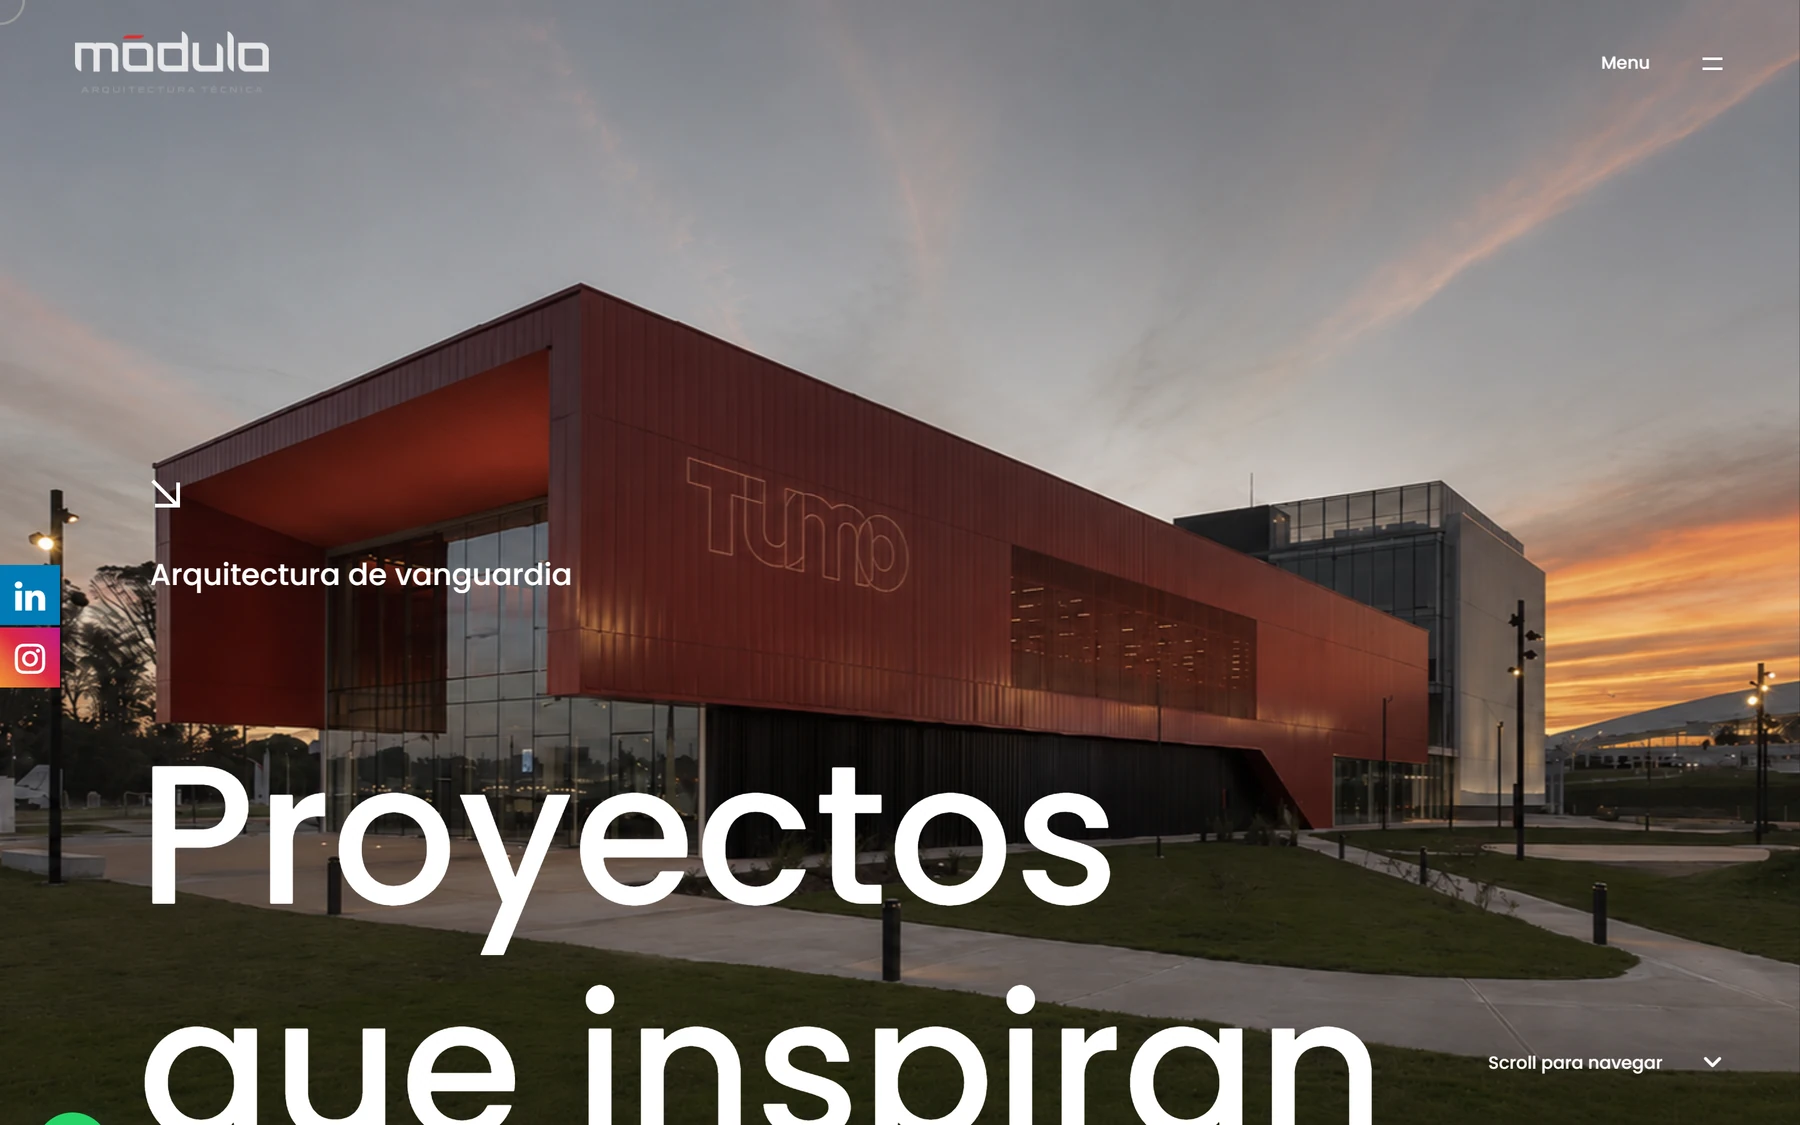
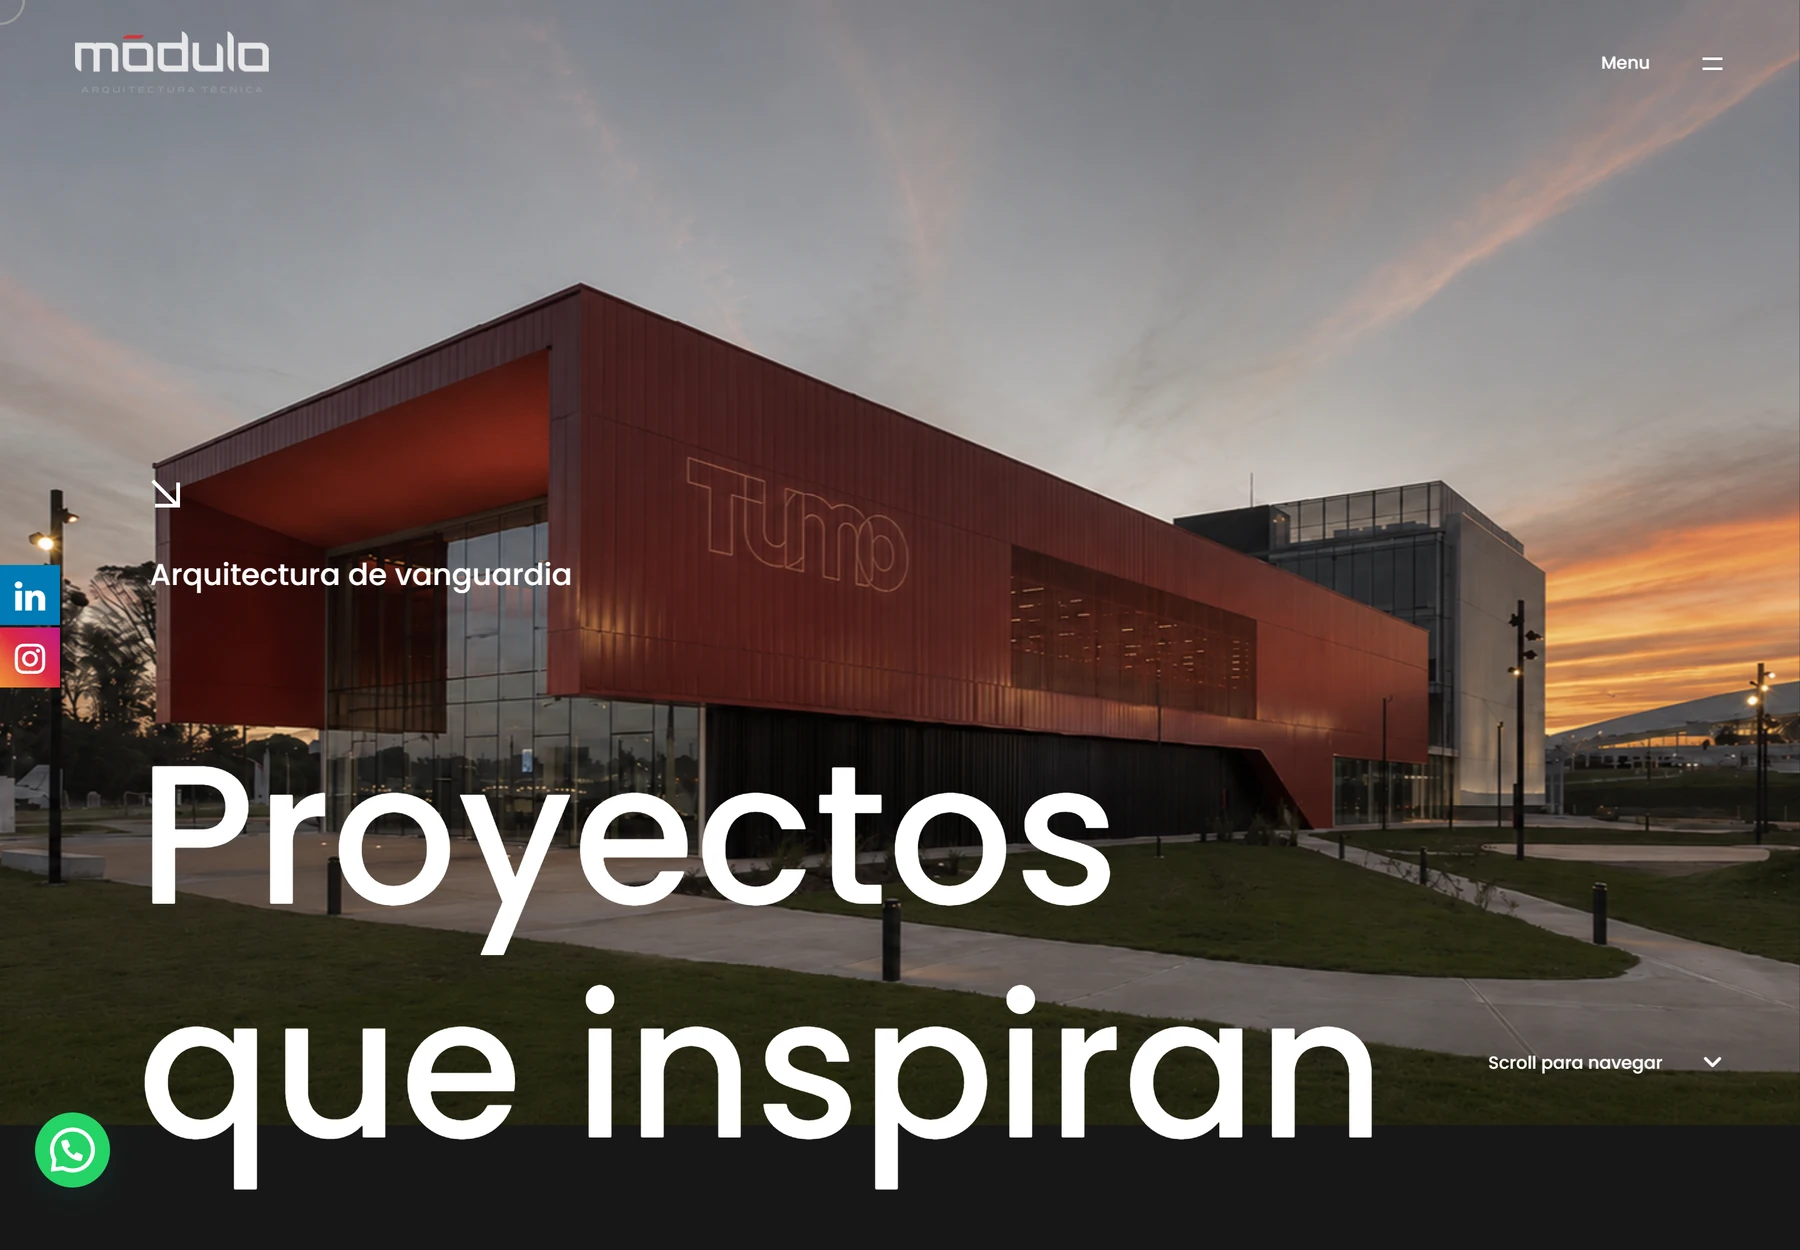
Refresh GMC desktop preview and client description

diff --git a/public/portfolio/index.html b/public/portfolio/index.html
@@ -19,7 +19,7 @@
 <div class="ticker" aria-hidden="true"><div><span>Diseño con identidad <b>✳</b> Tiendas online <b>✳</b> Sitios corporativos <b>✳</b> Ideas que conectan <b>✳</b> Soluciones digitales <b>✳</b> </span><span>Diseño con identidad <b>✳</b> Tiendas online <b>✳</b> Sitios corporativos <b>✳</b> Ideas que conectan <b>✳</b> Soluciones digitales <b>✳</b> </span></div></div>
 <section class="work" id="trabajos" aria-labelledby="work-title"><div class="section-heading"><div><p class="eyebrow">UNA SELECCIÓN DE LO QUE HACEMOS</p><h2 id="work-title">Nuestro trabajo habla.</h2></div><p>Distintos rubros. Una misma dedicación.<br>Encontrá inspiración para tu próximo proyecto.</p></div>
 <div class="toolbar" hidden><div class="filters" role="group" aria-label="Filtrar trabajos"><button class="active" data-filter="todos" aria-pressed="true">Todos <sup></sup></button><button data-filter="tiendas" aria-pressed="false">Tiendas online <sup></sup></button><button data-filter="corporativos" aria-pressed="false">Sitios corporativos <sup></sup></button><button data-filter="apps" aria-pressed="false">Apps y soluciones <sup></sup></button></div><label class="search"><span aria-hidden="true">⌕</span><input type="search" placeholder="Buscar proyecto" aria-label="Buscar proyecto"></label></div>
-<p class="result-count" aria-live="polite">40 proyectos para descubrir</p><div class="projects" id="projects"><article class="project" data-card="gmc-modulo-arquitectura"><a class="preview cover-theme-slate" data-project="gmc-modulo-arquitectura" href="https://moduloarquitectura.uy/" aria-label="Ver proyecto Módulo Arquitectura · GMC"><div class="cover-scene has-mobile"><div class="cover-heading"><span>Módulo Arquitectura · GMC</span><small>NUEVO PROYECTO</small></div><div class="cover-desktop"><div class="browser-bar"><i></i><i></i><i></i><span>moduloarquitectura.uy</span></div><img src="assets/thumb-gmc-modulo-arquitectura.webp" srcset="assets/thumb-gmc-modulo-arquitectura.webp 480w, assets/thumbLarge-gmc-modulo-arquitectura.webp 1200w" sizes="(max-width: 480px) 73vw, (max-width: 760px) 36vw, (min-width: 1600px) 400px, 25vw" alt="Vista de escritorio de Módulo Arquitectura · GMC" loading="lazy" decoding="async" width="1100" height="764"></div><div class="cover-phone"><span class="phone-camera" aria-hidden="true"></span><img src="assets/phoneThumb-gmc-modulo-arquitectura.webp" srcset="assets/phoneThumb-gmc-modulo-arquitectura.webp 180w, assets/phoneThumbLarge-gmc-modulo-arquitectura.webp 390w" sizes="(max-width: 480px) 21vw, (max-width: 760px) 10vw, (min-width: 1600px) 110px, 7vw" alt="Vista móvil de Módulo Arquitectura · GMC" loading="lazy" decoding="async" width="390" height="844"></div><span class="cover-caption" aria-hidden="true">IDEAMOS® · DISEÑO DIGITAL</span></div><span class="preview-label">Conocer el proyecto ↗</span></a><div class="project-meta"><div><h3><a class="project-title" data-project="gmc-modulo-arquitectura" href="https://moduloarquitectura.uy/">Módulo Arquitectura · GMC</a></h3><p>Arquitectura técnica &amp; construcción</p></div><a class="project-link" href="https://moduloarquitectura.uy/" target="_blank" rel="noopener noreferrer" aria-label="Visitar Módulo Arquitectura · GMC (nueva pestaña)"><svg class="arrow-icon" viewBox="0 0 24 24" aria-hidden="true" focusable="false"><path d="M6 18 18 6M6 6h12v12"/></svg></a></div><p class="project-summary">Sitio corporativo de Módulo Arquitectura, al que actualmente redirige el dominio de GMC. Presenta su experiencia en cubiertas, envolventes y fachadas, reúne proyectos arquitectónicos y publicaciones, y facilita el contacto para nuevas obras.</p><span class="project-type">Sitio corporativo</span></article>
+<p class="result-count" aria-live="polite">40 proyectos para descubrir</p><div class="projects" id="projects"><article class="project" data-card="gmc-modulo-arquitectura"><a class="preview cover-theme-slate" data-project="gmc-modulo-arquitectura" href="https://moduloarquitectura.uy/" aria-label="Ver proyecto Módulo Arquitectura · GMC"><div class="cover-scene has-mobile"><div class="cover-heading"><span>Módulo Arquitectura · GMC</span><small>NUEVO PROYECTO</small></div><div class="cover-desktop"><div class="browser-bar"><i></i><i></i><i></i><span>moduloarquitectura.uy</span></div><img src="assets/thumb-gmc-modulo-arquitectura.webp" srcset="assets/thumb-gmc-modulo-arquitectura.webp 480w, assets/thumbLarge-gmc-modulo-arquitectura.webp 1200w" sizes="(max-width: 480px) 73vw, (max-width: 760px) 36vw, (min-width: 1600px) 400px, 25vw" alt="Vista de escritorio de Módulo Arquitectura · GMC" loading="lazy" decoding="async" width="1100" height="764"></div><div class="cover-phone"><span class="phone-camera" aria-hidden="true"></span><img src="assets/phoneThumb-gmc-modulo-arquitectura.webp" srcset="assets/phoneThumb-gmc-modulo-arquitectura.webp 180w, assets/phoneThumbLarge-gmc-modulo-arquitectura.webp 390w" sizes="(max-width: 480px) 21vw, (max-width: 760px) 10vw, (min-width: 1600px) 110px, 7vw" alt="Vista móvil de Módulo Arquitectura · GMC" loading="lazy" decoding="async" width="390" height="844"></div><span class="cover-caption" aria-hidden="true">IDEAMOS® · DISEÑO DIGITAL</span></div><span class="preview-label">Conocer el proyecto ↗</span></a><div class="project-meta"><div><h3><a class="project-title" data-project="gmc-modulo-arquitectura" href="https://moduloarquitectura.uy/">Módulo Arquitectura · GMC</a></h3><p>Arquitectura técnica &amp; construcción</p></div><a class="project-link" href="https://moduloarquitectura.uy/" target="_blank" rel="noopener noreferrer" aria-label="Visitar Módulo Arquitectura · GMC (nueva pestaña)"><svg class="arrow-icon" viewBox="0 0 24 24" aria-hidden="true" focusable="false"><path d="M6 18 18 6M6 6h12v12"/></svg></a></div><p class="project-summary">Sitio corporativo de una empresa de arquitectura técnica en Uruguay. Presenta su experiencia en cubiertas, envolventes y fachadas, reúne proyectos arquitectónicos y publicaciones, y facilita el contacto para nuevas obras.</p><span class="project-type">Sitio corporativo</span></article>
 <article class="project" data-card="el-pampa-hogar"><a class="preview cover-theme-sand" data-project="el-pampa-hogar" href="https://elpampahogarmuebleria.com/" aria-label="Ver proyecto El Pampa Hogar"><div class="cover-scene has-mobile"><div class="cover-heading"><span>El Pampa Hogar</span><small>NUEVO PROYECTO</small></div><div class="cover-desktop"><div class="browser-bar"><i></i><i></i><i></i><span>elpampahogarmuebleria.com</span></div><img src="assets/thumb-el-pampa-hogar-20261001.webp" srcset="assets/thumb-el-pampa-hogar-20261001.webp 480w, assets/thumbLarge-el-pampa-hogar-20261001.webp 1200w" sizes="(max-width: 480px) 73vw, (max-width: 760px) 36vw, (min-width: 1600px) 400px, 25vw" alt="Vista de escritorio de El Pampa Hogar" loading="lazy" decoding="async" width="1100" height="764"></div><div class="cover-phone"><span class="phone-camera" aria-hidden="true"></span><img src="assets/phoneThumb-el-pampa-hogar-20261001.webp" srcset="assets/phoneThumb-el-pampa-hogar-20261001.webp 180w, assets/phoneThumbLarge-el-pampa-hogar-20261001.webp 390w" sizes="(max-width: 480px) 21vw, (max-width: 760px) 10vw, (min-width: 1600px) 110px, 7vw" alt="Vista móvil de El Pampa Hogar" loading="lazy" decoding="async" width="390" height="844"></div><span class="cover-caption" aria-hidden="true">IDEAMOS® · DISEÑO DIGITAL</span></div><span class="preview-label">Conocer el proyecto ↗</span></a><div class="project-meta"><div><h3><a class="project-title" data-project="el-pampa-hogar" href="https://elpampahogarmuebleria.com/">El Pampa Hogar</a></h3><p>Muebles &amp; artículos para el hogar</p></div><a class="project-link" href="https://elpampahogarmuebleria.com/" target="_blank" rel="noopener noreferrer" aria-label="Visitar El Pampa Hogar (nueva pestaña)"><svg class="arrow-icon" viewBox="0 0 24 24" aria-hidden="true" focusable="false"><path d="M6 18 18 6M6 6h12v12"/></svg></a></div><p class="project-summary">Tienda online de muebles, colchones y artículos para el hogar. Organiza el catálogo por ambientes y categorías, muestra los productos con sus precios y facilita la compra y las consultas de asesoramiento.</p><span class="project-type">Tienda online</span></article>
 <article class="project" data-card="bogan"><a class="preview cover-theme-sand" data-project="bogan" href="https://ideamos.ar/bogan/" aria-label="Ver proyecto Bogan Sukaldeak"><div class="cover-scene has-mobile"><div class="cover-heading"><span>Bogan Sukaldeak</span><small>NUEVO PROYECTO</small></div><div class="cover-desktop"><div class="browser-bar"><i></i><i></i><i></i><span>ideamos.ar</span></div><img src="assets/thumb-bogan.webp" srcset="assets/thumb-bogan.webp 480w, assets/thumbLarge-bogan.webp 1200w" sizes="(max-width: 480px) 73vw, (max-width: 760px) 36vw, (min-width: 1600px) 400px, 25vw" alt="Vista de escritorio de Bogan Sukaldeak" loading="lazy" decoding="async" width="1100" height="764"></div><div class="cover-phone"><span class="phone-camera" aria-hidden="true"></span><img src="assets/phoneThumb-bogan-20261001.webp" srcset="assets/phoneThumb-bogan-20261001.webp 180w, assets/phoneThumbLarge-bogan-20261001.webp 390w" sizes="(max-width: 480px) 21vw, (max-width: 760px) 10vw, (min-width: 1600px) 110px, 7vw" alt="Vista móvil de Bogan Sukaldeak" loading="lazy" decoding="async" width="390" height="844"></div><span class="cover-caption" aria-hidden="true">IDEAMOS® · DISEÑO DIGITAL</span></div><span class="preview-label">Conocer el proyecto ↗</span></a><div class="project-meta"><div><h3><a class="project-title" data-project="bogan" href="https://ideamos.ar/bogan/">Bogan Sukaldeak</a></h3><p>Cocinas &amp; mobiliario a medida</p></div><a class="project-link" href="https://ideamos.ar/bogan/" target="_blank" rel="noopener noreferrer" aria-label="Visitar Bogan Sukaldeak (nueva pestaña)"><svg class="arrow-icon" viewBox="0 0 24 24" aria-hidden="true" focusable="false"><path d="M6 18 18 6M6 6h12v12"/></svg></a></div><p class="project-summary">Sitio corporativo de una empresa de Azpeitia dedicada al diseño, fabricación e instalación de cocinas, armarios y mobiliario a medida. Presenta sus servicios y proyectos, responde preguntas frecuentes y facilita el contacto para iniciar una propuesta personalizada.</p><span class="project-type">Sitio corporativo</span></article>
 <article class="project" data-card="sphere-design"><a class="preview cover-theme-sand" data-project="sphere-design" href="https://estudioideamos.github.io/sphere-design/" aria-label="Ver proyecto Sphere Design"><div class="cover-scene has-mobile"><div class="cover-heading"><span>Sphere Design</span><small>NUEVO PROYECTO</small></div><div class="cover-desktop"><div class="browser-bar"><i></i><i></i><i></i><span>estudioideamos.github.io</span></div><img src="assets/thumb-sphere-design.webp" srcset="assets/thumb-sphere-design.webp 480w, assets/thumbLarge-sphere-design.webp 1200w" sizes="(max-width: 480px) 73vw, (max-width: 760px) 36vw, (min-width: 1600px) 400px, 25vw" alt="Vista de escritorio de Sphere Design" loading="lazy" decoding="async" width="1100" height="764"></div><div class="cover-phone"><span class="phone-camera" aria-hidden="true"></span><img src="assets/phoneThumb-sphere-design-centered.webp" srcset="assets/phoneThumb-sphere-design-centered.webp 180w, assets/phoneThumbLarge-sphere-design-centered.webp 390w" sizes="(max-width: 480px) 21vw, (max-width: 760px) 10vw, (min-width: 1600px) 110px, 7vw" alt="Vista móvil de Sphere Design" loading="lazy" decoding="async" width="390" height="844"></div><span class="cover-caption" aria-hidden="true">IDEAMOS® · DISEÑO DIGITAL</span></div><span class="preview-label">Conocer el proyecto ↗</span></a><div class="project-meta"><div><h3><a class="project-title" data-project="sphere-design" href="https://estudioideamos.github.io/sphere-design/">Sphere Design</a></h3><p>Arquitectura &amp; visualización 3D</p></div><a class="project-link" href="https://estudioideamos.github.io/sphere-design/" target="_blank" rel="noopener noreferrer" aria-label="Visitar Sphere Design (nueva pestaña)"><svg class="arrow-icon" viewBox="0 0 24 24" aria-hidden="true" focusable="false"><path d="M6 18 18 6M6 6h12v12"/></svg></a></div><p class="project-summary">Sitio de un estudio de visualización arquitectónica de Miami. Presenta renders, películas y experiencias inmersivas mediante un portfolio visual y un recorrido editorial por sus servicios.</p><span class="project-type">Sitio corporativo</span></article>

diff --git a/public/portfolio/projects.js b/public/portfolio/projects.js
@@ -4,7 +4,7 @@ window.PROJECTS = [
     "name": "Módulo Arquitectura · GMC",
     "category": "corporativos",
     "sector": "Arquitectura técnica & construcción",
-    "description": "Sitio corporativo de Módulo Arquitectura, al que actualmente redirige el dominio de GMC. Presenta su experiencia en cubiertas, envolventes y fachadas, reúne proyectos arquitectónicos y publicaciones, y facilita el contacto para nuevas obras.",
+    "description": "Sitio corporativo de una empresa de arquitectura técnica en Uruguay. Presenta su experiencia en cubiertas, envolventes y fachadas, reúne proyectos arquitectónicos y publicaciones, y facilita el contacto para nuevas obras.",
     "features": [
       "Portfolio de obras",
       "Cubiertas y fachadas",
